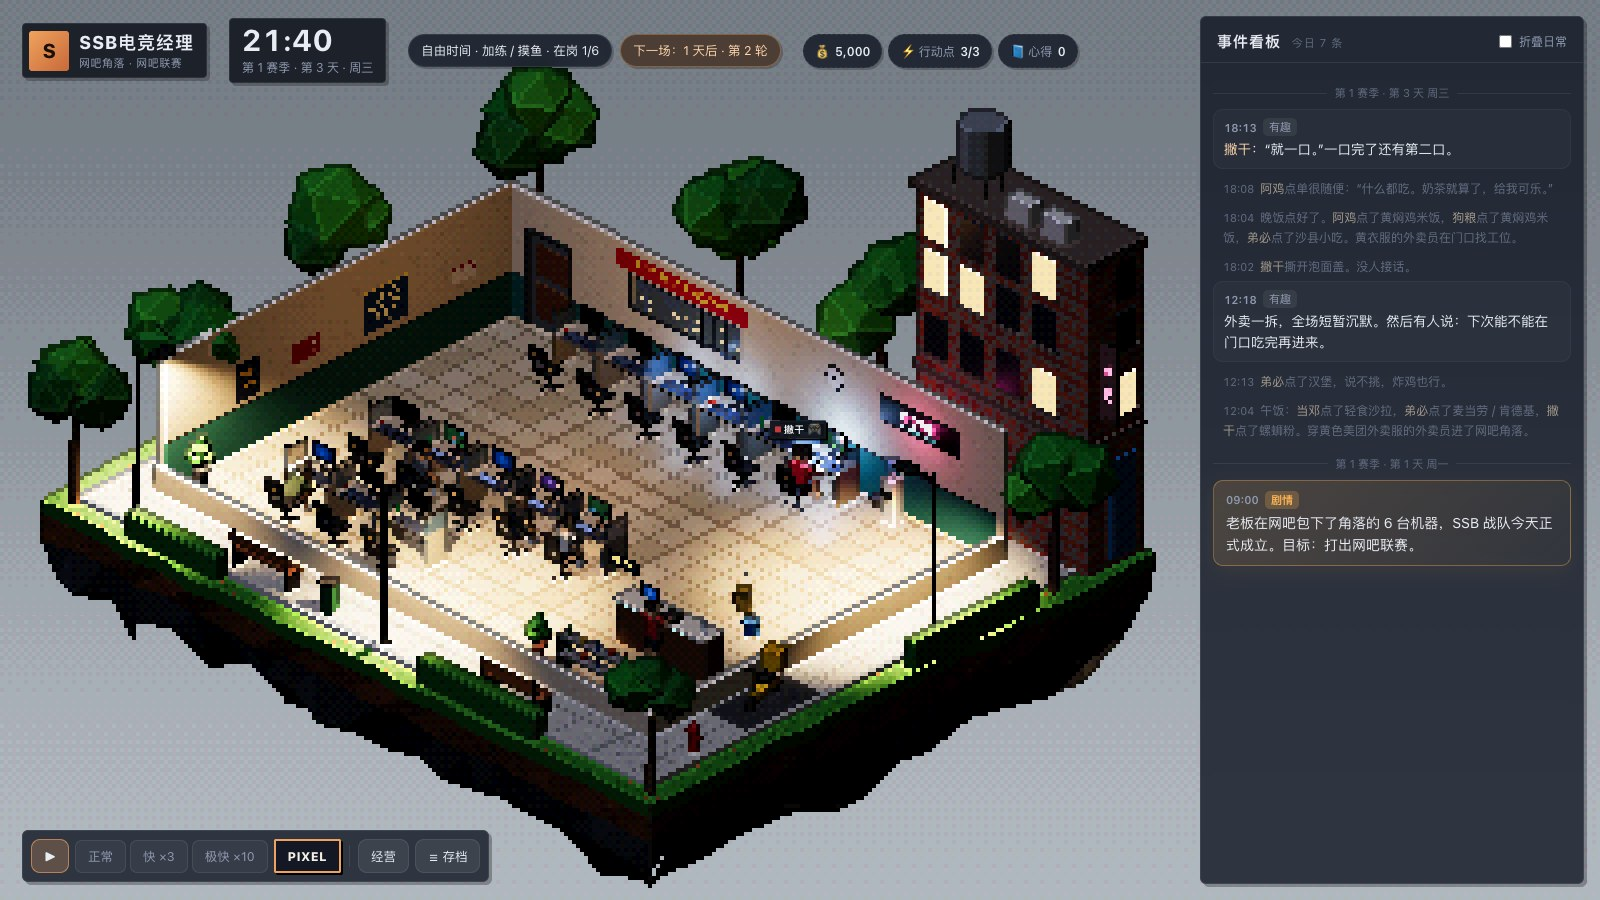
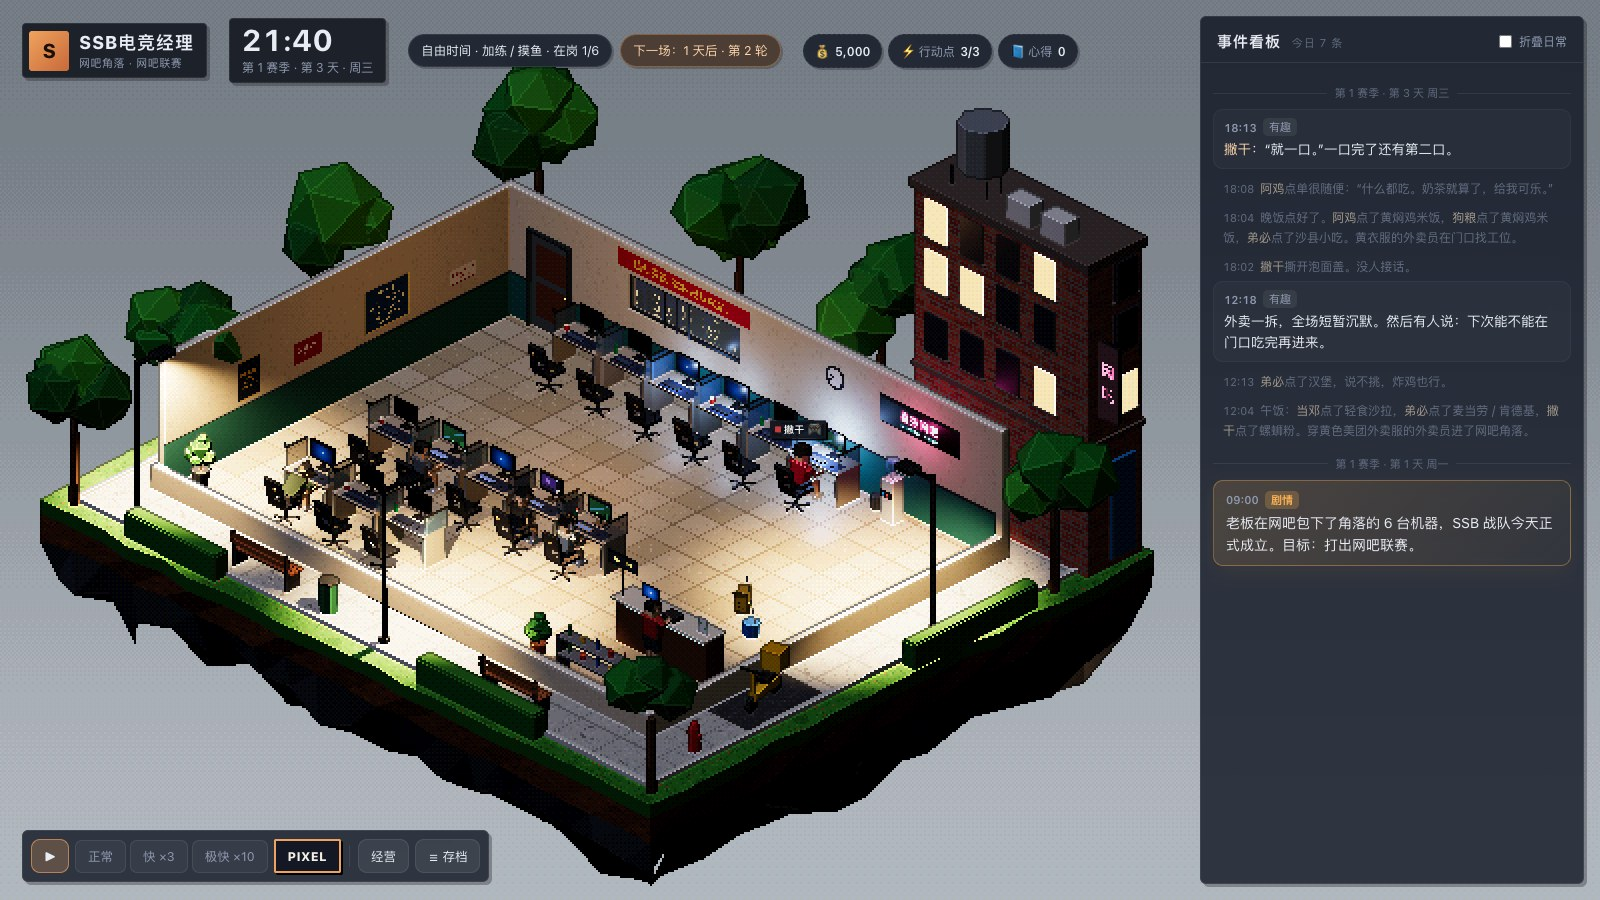
美术：像素粒度默认改为 2，贴图精度翻倍
用户反馈颗粒太粗。默认粒度从 4 CSS 像素降到 2（可选 2 / 3 / 4 / 5）：
1600×900 下可见区低分从 300×225 提到 600×450，人物约 38 像素高，招牌能读。
地面、砖墙、地砖贴图精度跟着翻倍（一个贴素约 3.5 cm），避免大小像素混排；雨点水花缩小。

diff --git a/game/src/scene/textures.ts b/game/src/scene/textures.ts
@@ -380,26 +380,26 @@ export function posterTexture(): THREE.CanvasTexture {
   return t;
 }
 
-// 网吧地砖：像素尺度（一块砖 10 贴素 ≈ 0.7 米），米白砖 + 深一点的砖缝 + 少量斑点，偶尔一块旧砖
+// 网吧地砖：一块砖 20 贴素 ≈ 0.7 米（贴素约 3.5 cm），米白砖 + 深一点的砖缝 + 少量斑点，偶尔一块旧砖
 export function tileTexture() {
-  const c = canvas(40, 40);
+  const c = canvas(80, 80);
   const g = c.getContext('2d')!;
   const r = mulberry32(7);
   const tones = ['#d6ccb4', '#d0c5ab', '#dad1bb', '#c4b89c'];
   for (let i = 0; i < 4; i++) {
     for (let j = 0; j < 4; j++) {
       g.fillStyle = tones[r() < 0.18 ? 3 : Math.floor(r() * 3)];
-      g.fillRect(i * 10, j * 10, 10, 10);
+      g.fillRect(i * 20, j * 20, 20, 20);
     }
   }
-  for (let n = 0; n < 90; n++) {
+  for (let n = 0; n < 360; n++) {
     g.fillStyle = r() < 0.5 ? '#bfb398' : '#e2dac6';
-    g.fillRect(Math.floor(r() * 40), Math.floor(r() * 40), 1, 1);
+    g.fillRect(Math.floor(r() * 80), Math.floor(r() * 80), 1, 1);
   }
   g.fillStyle = '#9d927c';
-  for (let i = 0; i < 40; i += 10) {
-    g.fillRect(i, 0, 1, 40);
-    g.fillRect(0, i, 40, 1);
+  for (let i = 0; i < 80; i += 20) {
+    g.fillRect(i, 0, 1, 80);
+    g.fillRect(0, i, 80, 1);
   }
   return toTexture(c, { repeat: [14 / 2.8, 10 / 2.8] });
 }
@@ -483,7 +483,7 @@ export function neonTexture(text: string, color: string, sub?: string): THREE.Ca
   return t;
 }
 
-// ── 漂浮街区用的像素贴图：一个贴素 ≈ 一个低分像素（约 7 cm），世界坐标 UV，每 4.5 米重复一次 ──
+// ── 漂浮街区用的像素贴图：128 贴素对应 4.5 米，一个贴素约 3.5 cm ≈ 默认粒度下的一个低分像素；世界坐标 UV ──
 export const TEXEL_TILE_M = 4.5;
 
 function speckle(size: number, base: string, specks: [string, number][], seed: number) {
@@ -502,11 +502,11 @@ function speckle(size: number, base: string, specks: [string, number][], seed: n
 
 // 草皮：亮绿底 + 深浅草点 + 零星土黄点（视频里路边草地的样子）
 export function grassTexture() {
-  const { c, g, r } = speckle(64, '#4a8a36', [['#3d7a2f', 0.16], ['#5a9a40', 0.12], ['#2f6629', 0.04], ['#9a6a34', 0.014]], 11);
+  const { c, g, r } = speckle(128, '#4a8a36', [['#3d7a2f', 0.16], ['#5a9a40', 0.12], ['#2f6629', 0.04], ['#9a6a34', 0.014]], 11);
   // 大块深浅草斑：视频里草地不是一整片匀色
-  for (let i = 0; i < 9; i++) {
+  for (let i = 0; i < 36; i++) {
     g.fillStyle = r() < 0.5 ? 'rgba(40,90,36,0.45)' : 'rgba(110,160,70,0.3)';
-    const x = Math.floor(r() * 60), y = Math.floor(r() * 60), w = 3 + Math.floor(r() * 6), h = 2 + Math.floor(r() * 4);
+    const x = Math.floor(r() * 120), y = Math.floor(r() * 120), w = 6 + Math.floor(r() * 12), h = 4 + Math.floor(r() * 8);
     g.fillRect(x, y, w, h);
   }
   return toTexture(c);
@@ -514,38 +514,38 @@ export function grassTexture() {
 
 // 人行道：浅灰方砖 + 砖缝 + 少量污点
 export function pavingTexture() {
-  const { c, g, r } = speckle(64, '#b8bbba', [['#a9adac', 0.12], ['#c6c8c6', 0.08], ['#8e9292', 0.02]], 12);
+  const { c, g, r } = speckle(128, '#b8bbba', [['#a9adac', 0.12], ['#c6c8c6', 0.08], ['#8e9292', 0.02]], 12);
   g.fillStyle = '#8f9393';
-  for (let i = 0; i < 64; i += 16) {
-    g.fillRect(i, 0, 1, 64);
-    g.fillRect(0, i, 64, 1);
+  for (let i = 0; i < 128; i += 32) {
+    g.fillRect(i, 0, 1, 128);
+    g.fillRect(0, i, 128, 1);
   }
-  for (let i = 0; i < 6; i++) {
+  for (let i = 0; i < 24; i++) {
     g.fillStyle = 'rgba(70,72,74,0.5)';
-    g.fillRect(Math.floor(r() * 62), Math.floor(r() * 62), 2, 1);
+    g.fillRect(Math.floor(r() * 124), Math.floor(r() * 124), 3, 2);
   }
   return toTexture(c);
 }
 
 // 柏油路：深灰 + 颗粒
 export function asphaltTexture() {
-  const { c } = speckle(64, '#3d4044', [['#45494d', 0.18], ['#34373a', 0.12], ['#5a5e62', 0.02]], 13);
+  const { c } = speckle(128, '#3d4044', [['#45494d', 0.18], ['#34373a', 0.12], ['#5a5e62', 0.02]], 13);
   return toTexture(c);
 }
 
-// 红砖墙：每块砖 4×2 贴素，砖缝浅；窗户另外建模
+// 红砖墙：每块砖 7×2 贴素（约 25×7 cm），1 贴素砖缝；窗户另外建模
 export function brickTexture() {
-  const c = canvas(64, 64);
+  const c = canvas(128, 128);
   const g = c.getContext('2d')!;
   g.fillStyle = '#8a8178';
-  g.fillRect(0, 0, 64, 64);
+  g.fillRect(0, 0, 128, 128);
   const r = mulberry32(14);
   const tones = ['#9c4a35', '#a5543c', '#8e4130', '#b05f43'];
-  for (let y = 0; y < 64; y += 3) {
-    const off = (y / 3) % 2 ? 2 : 0;
-    for (let x = -off; x < 64; x += 5) {
+  for (let y = 0; y < 128; y += 3) {
+    const off = (y / 3) % 2 ? 4 : 0;
+    for (let x = -off; x < 128; x += 8) {
       g.fillStyle = tones[Math.floor(r() * tones.length)];
-      g.fillRect(x, y, 4, 2);
+      g.fillRect(x, y, 7, 2);
     }
   }
   return toTexture(c);
@@ -553,6 +553,6 @@ export function brickTexture() {
 
 // 土层、岩石侧面：横向分层的颗粒
 export function soilTexture() {
-  const { c } = speckle(64, '#6e4526', [['#5d3a20', 0.18], ['#7f5230', 0.1], ['#4a2e19', 0.04]], 15);
+  const { c } = speckle(128, '#6e4526', [['#5d3a20', 0.18], ['#7f5230', 0.1], ['#4a2e19', 0.04]], 15);
   return toTexture(c);
 }

diff --git a/game/src/scene/pixelPass.ts b/game/src/scene/pixelPass.ts
@@ -6,7 +6,7 @@ import * as THREE from 'three';
 /** 特效图层（雨丝、水花）：只进颜色 pass，不进法线 pass。和 weather.ts 的 FX_LAYER 一致。 */
 export const FX_LAYER = 1;
 
-export type PixelSize = 3 | 4 | 5;
+export type PixelSize = 2 | 3 | 4 | 5;
 export type RenderMode = 'pixel' | 'raw';
 
 // 漂浮街区（房间 + 四周人行道）在等距镜头下的可见范围（世界单位，按视平面量）
@@ -40,7 +40,7 @@ export function snapOffset(viewCoord: number, step: number): number {
 
 /**
  * 实际用的像素粒度：窄屏（手机）上按 CSS 像素算会太糊，保证可见区域至少约 200 列低分像素；
- * 桌面上就是用户选的 3 / 4 / 5。
+ * 桌面上就是用户选的 2 / 3 / 4 / 5。
  */
 export function effectivePixelSize(chosen: number, visibleCssWidth: number): number {
   return Math.max(2, Math.min(chosen, Math.floor(visibleCssWidth / 200)));
@@ -48,10 +48,10 @@ export function effectivePixelSize(chosen: number, visibleCssWidth: number): num
 
 export function parsePixelSize(value: string | null): PixelSize {
   const n = Number(value);
-  return n === 3 || n === 4 || n === 5 ? n : 4;
+  return n === 2 || n === 3 || n === 4 || n === 5 ? n : 2;
 }
 
-/** `?raw3d=1` / `?render=raw` 启动即 RAW；`?pixel=3|4|5` 指定粒度（CSS 像素）。默认 PIXEL、粒度 4。 */
+/** `?raw3d=1` / `?render=raw` 启动即 RAW；`?pixel=2|3|4|5` 指定粒度（CSS 像素）。默认 PIXEL、粒度 2。 */
 export function parseRenderMode(search: string | URLSearchParams): { mode: RenderMode; pixelSize: PixelSize } {
   const params = typeof search === 'string' ? new URLSearchParams(search) : search;
   const raw = params.get('raw3d') === '1' || params.get('render') === 'raw';
@@ -191,7 +191,7 @@ function makeTarget(width: number, height: number, withDepth: boolean): THREE.We
 }
 
 export class PixelPipeline {
-  pixelSize: PixelSize = 4;
+  pixelSize: PixelSize = 2;
   lowWidth = 2;
   lowHeight = 2;
   private beauty: THREE.WebGLRenderTarget;

diff --git a/game/tests/pixel.test.ts b/game/tests/pixel.test.ts
@@ -3,9 +3,9 @@ import { ROSTER } from '../src/data/roster';
 import { effectivePixelSize, lowResSize, parseRenderMode, snapOffset, verticalFrustum, worldUnitsPerPixel } from '../src/scene/pixelPass';
 
 describe('像素管线参数', () => {
-  it('默认是 PIXEL，粒度为 4（CSS 像素）', () => {
-    expect(parseRenderMode('')).toEqual({ mode: 'pixel', pixelSize: 4 });
-    expect(parseRenderMode('t=14:30&skip=1')).toEqual({ mode: 'pixel', pixelSize: 4 });
+  it('默认是 PIXEL，粒度为 2（CSS 像素）', () => {
+    expect(parseRenderMode('')).toEqual({ mode: 'pixel', pixelSize: 2 });
+    expect(parseRenderMode('t=14:30&skip=1')).toEqual({ mode: 'pixel', pixelSize: 2 });
   });
 
   it('raw3d 和 render=raw 进入原始 3D', () => {
@@ -14,12 +14,13 @@ describe('像素管线参数', () => {
     expect(parseRenderMode('render=raw&pixel=4')).toEqual({ mode: 'raw', pixelSize: 4 });
   });
 
-  it('只接受 3 / 4 / 5 三档像素', () => {
+  it('只接受 2 / 3 / 4 / 5 四档像素', () => {
+    expect(parseRenderMode('pixel=2').pixelSize).toBe(2);
     expect(parseRenderMode('pixel=3').pixelSize).toBe(3);
     expect(parseRenderMode('pixel=5').pixelSize).toBe(5);
-    expect(parseRenderMode('pixel=2').pixelSize).toBe(4);
-    expect(parseRenderMode('pixel=8').pixelSize).toBe(4);
-    expect(parseRenderMode('pixel=0').pixelSize).toBe(4);
+    expect(parseRenderMode('pixel=1').pixelSize).toBe(2);
+    expect(parseRenderMode('pixel=8').pixelSize).toBe(2);
+    expect(parseRenderMode('pixel=0').pixelSize).toBe(2);
   });
 
   it('窄屏自动收小粒度，保证约 200 列低分像素；桌面按用户选的', () => {

diff --git a/game/src/debug/panel.ts b/game/src/debug/panel.ts
@@ -36,8 +36,8 @@ export interface GodHooks {
   showOffseason: () => void;
   showBracket: () => void;
   refreshCheatModal: () => void;
-  getPixelSize: () => 3 | 4 | 5;
-  setPixelSize: (size: 3 | 4 | 5) => void;
+  getPixelSize: () => 2 | 3 | 4 | 5;
+  setPixelSize: (size: 2 | 3 | 4 | 5) => void;
 }
 
 export function mountGodPanel(hooks: GodHooks): { sync: () => void } {
@@ -112,6 +112,7 @@ export function mountGodPanel(hooks: GodHooks): { sync: () => void } {
       </div>
       <div class="god-row">
         <span>像素粒度</span>
+        <button type="button" data-px="2">2</button>
         <button type="button" data-px="3">3</button>
         <button type="button" data-px="4">4</button>
         <button type="button" data-px="5">5</button>
@@ -297,7 +298,7 @@ export function mountGodPanel(hooks: GodHooks): { sync: () => void } {
   root.querySelectorAll<HTMLButtonElement>('[data-px]').forEach((btn) => {
     btn.addEventListener('click', () => {
       const size = Number(btn.dataset.px);
-      if (size !== 3 && size !== 4 && size !== 5) return;
+      if (size !== 2 && size !== 3 && size !== 4 && size !== 5) return;
       hooks.setPixelSize(size);
       sync();
     });

diff --git a/game/src/scene/weather.ts b/game/src/scene/weather.ts
@@ -63,7 +63,7 @@ export class Weather {
     this.drops.layers.set(FX_LAYER);
     this.drops.count = 0;
     const splashMat = new THREE.MeshBasicMaterial({ color: 0xeef3f8, transparent: true, opacity: 0.85, depthWrite: false });
-    this.splashes = new THREE.InstancedMesh(new THREE.BoxGeometry(0.14, 0.05, 0.14), splashMat, SPLASHES);
+    this.splashes = new THREE.InstancedMesh(new THREE.BoxGeometry(0.1, 0.04, 0.1), splashMat, SPLASHES);
     this.splashes.frustumCulled = false;
     this.splashes.layers.set(FX_LAYER);
     this.splashes.count = SPLASHES;

diff --git a/game/src/scene/stage.ts b/game/src/scene/stage.ts
@@ -44,7 +44,7 @@ export class Stage {
   bloom: UnrealBloomPass | null = null;
   pixel: PixelPipeline;
   renderMode: RenderMode = 'pixel';
-  pixelSize: PixelSize = 4;
+  pixelSize: PixelSize = 2;
   pickables: THREE.Object3D[] = [];
   onPick: ((id: string | null) => void) | null = null;
   focusTarget: THREE.Vector3 | null = null;

diff --git a/docs/美术-像素街区画风-v1.md b/docs/美术-像素街区画风-v1.md
@@ -22,19 +22,19 @@
 
 | 视频里的 | 本分支 | 文件 |
 |---|---|---|
-| 低分辨率渲染 | 粒度按 **CSS 像素**算（默认 4，可选 3 / 5），Retina 屏颗粒不变细；窄屏自动收小，保证约 200 列 | `scene/pixelPass.ts` |
+| 低分辨率渲染 | 粒度按 **CSS 像素**算（默认 2，可选 3 / 4 / 5），Retina 屏颗粒不变细；窄屏自动收小，保证约 200 列 | `scene/pixelPass.ts` |
 | 调色板量化 | 每通道 32 级 + 很轻的 4×4 Bayer（只在渐变处出颗粒），轻微提饱和 ×1.1 | `scene/pixelPass.ts` |
 | 深度描边 | 邻居明显更远（> 0.22 m）→ 压暗**物体自身**的边缘像素（保留色相，不是统一黑线） | `scene/pixelPass.ts` |
 | 棱边高光 | 同一表面附近、法线拐过去的凸棱提亮 | `scene/pixelPass.ts` |
 | 浅灰背景 | 合成时给深度 = 1 的像素填渐变；昼夜只微调，下雨压暗成阴天灰 | `pixelPass.ts`、`lighting.ts` |
 | 漂浮城市街区 | 草皮顶面 + 草皮侧面 + 土层 + 一圈近乎垂直的岩壁，再一层层收成尖底；岩面逐面随机灰度 | `scene/diorama.ts` |
-| 人行道、路缘石、柏油 | 世界坐标 UV 的像素贴图（一个贴素约 7 cm） | `diorama.ts`、`textures.ts` |
+| 人行道、路缘石、柏油 | 世界坐标 UV 的像素贴图（一个贴素约 3.5 cm，和默认粒度下一个低分像素一样大，不出现大小像素混排） | `diorama.ts`、`textures.ts` |
 | 树、灌木 | 二十面体叶团（平直着色），灌木篱是方块 | `diorama.ts`、`office.ts` |
 | 路灯 + 实时阴影 | 3 盏路灯（聚光灯），前排中间那盏投影；傍晚 / 下雨开灯 | `diorama.ts`、`lighting.ts` |
 | 街角砖楼、亮窗 | 后墙右侧 7 m 砖楼，约一半窗户夜里亮；侧面竖招牌“网吧”；屋顶水箱、空调外机 | `diorama.ts` |
 | 硬阴影、日夜 | `BasicShadowMap` 硬边；太阳强、天光弱；太阳轨迹在场景里转 90°，影子一整天都落在镜头看得见的一侧 | `lighting.ts` |
 | 暴雨、溅水、场地变湿、积水 | 雨丝只落在室外（房间没有天花板，室内不能淋雨）；落地溅水花；地面随雨变深变光滑，人行道显出积水 | `scene/weather.ts` |
-| 小人 | 方块拼装真人比例：短袖 T 恤 + 短裤 + 露小腿 + 白袜 + 鞋，约 19 个低分像素高（视频约 18） | `scene/character.ts` |
+| 小人 | 方块拼装真人比例：短袖 T 恤 + 短裤 + 露小腿 + 白袜 + 鞋；默认粒度下约 38 个低分像素高（视频约 18，见第 3 节“粒度”） | `scene/character.ts` |
 | 原始 3D 对照 | 保留 PIXEL / RAW 3D 按钮和 `?raw3d=1` | `main.ts` |
 
 另外：
@@ -48,13 +48,26 @@
 
 ```
 镜头          正交，方向 (1, 0.82, 1)（约 30° 俯角、45° 方位），视锥高 17.5，可见宽 ≥ 24.5
-像素粒度      默认 4 CSS 像素；窄屏 max(2, min(选择, 可见宽 / 200))
+像素粒度      默认 2 CSS 像素（可选 3 / 4 / 5）；窄屏 max(2, min(选择, 可见宽 / 200))
+贴图精度      地面、砖墙 128 贴素 / 4.5 m（约 3.5 cm）；网吧地砖 20 贴素 / 0.7 m
 描边          深度落差 > 0.22 m 压暗到 52%；凸棱提亮 ×1.32
 量化          32 级/通道，Bayer 幅度 0.8 级；饱和 ×1.1
 岛体          x ∈ [-8.5, 9.1]，z ∈ [-7.5, 7.1]；顶面 y = -0.04，尖底约 y = -5
 人物          身高 1.72 × height；头 0.23×0.26×0.24 + 发 ~0.05；腿 0.84；坐高 0.5
 雨            1100 根雨丝；前、右两条人行道的雨从 3.4 m 落（防止投影盖到房间里），其余从 9 m
 ```
+
+### 粒度怎么选（2026-10-24 用户反馈“颗粒太粗”后调整）
+
+| 粒度（CSS 像素） | 1600×900 下可见区低分 | 人物高 | 观感 |
+|---|---|---|---|
+| 5 | 240×180 | ~15 px | 只剩色块，认不出谁是谁 |
+| 4（首版默认） | 300×225 | ~19 px | 和视频同密度；但在桌面大屏上显得糊，招牌字、键盘都糊成一团 |
+| 3 | 400×300 | ~25 px | 折中，像素感最强又能认人 |
+| **2（现默认）** | 600×450 | ~38 px | 衣服、头发、椅子分得开，招牌能读；描边、硬阴影、量化颗粒都还在 |
+| 1 | — | — | 等于全分辨率，像素画风没了，不提供 |
+
+视频是 720p 手机录屏，一个像素约 3.3 屏幕像素、画面只有约 220 行；放到桌面全屏玩会显得粗。所以默认取 2，想要更“像素”可以在调试面板或 `?pixel=3` 切换。
 
 ## 4. 实测（Chrome headless + SwiftShader，1440×900）
 
@@ -84,7 +97,7 @@
 
 ```bash
 cd game && npm run build
-# 默认 PIXEL；?raw3d=1 原始 3D；?pixel=3|4|5 粒度；?rain=1 强制下雨，?rain=0 强制晴天
+# 默认 PIXEL；?raw3d=1 原始 3D；?pixel=2|3|4|5 粒度；?rain=1 强制下雨，?rain=0 强制晴天
 node scripts/screenshots.mjs 't=14:30&day=3&paused=1&rain=1'
 ```
 
